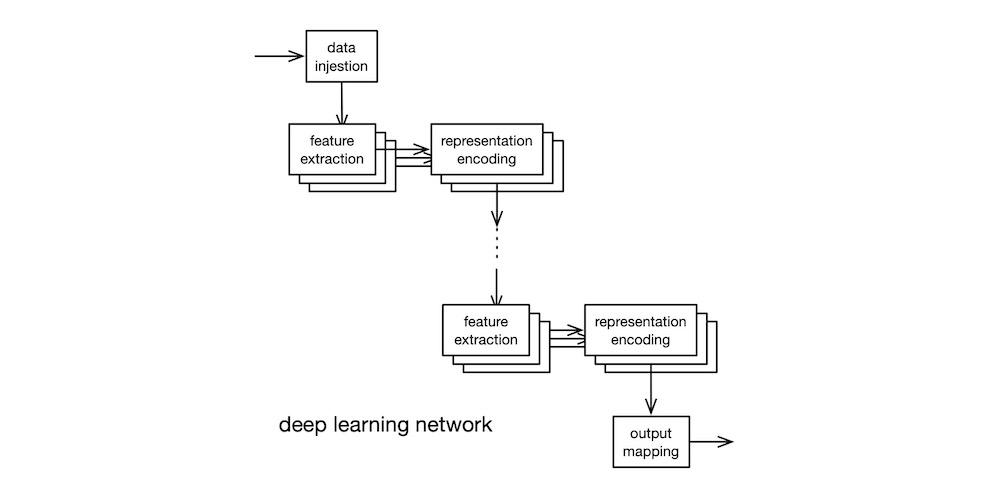
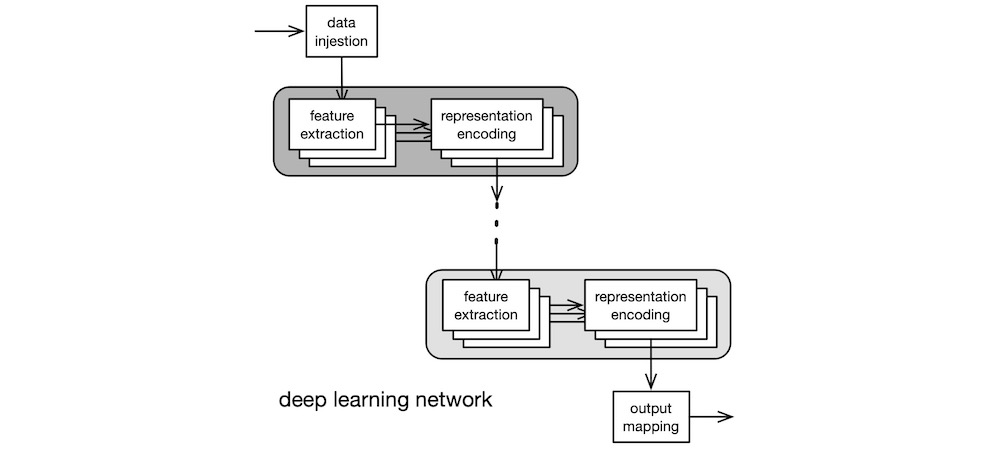
tidy

Changed region(s): [[0.403, 0.5911, 0.744, 0.9956], [0.248, 0.0, 0.589, 0.4044], [0.279, 0.84, 0.496, 0.9022]]

diff --git a/stem/AI/HowAIWorks.md b/stem/AI/HowAIWorks.md
@@ -1,0 +1,146 @@
+---
+title: "How Artificial Intelligence Works"
+tags:
+  - mathjax
+use_math: true
+---
+
+# INTRODUCTION
+
+In this article, I present a high-level overview of artificial intelligence (AI). I describe what AI is, its inner workings, its uses, and its social and ethical implications. All technical writings fall in the spectrum between scientific textbooks and newspaper reports. Textbooks are accurate, precise, and concise, but dense. Reports are vague and fluffy, but accessible. Because I wrote this article for anyone who is curious about how AI works, it is nearer to the report end of the spectrum than to the textbook end. But I tried to be as accurate as possible, without diminishing accessibility. Where appropriate, I sacrificed precision and concision for readability. More importantly, this is a "how it works" article for the general public, not a "how to work with it" guide for the practitioners. The focus, therefore, is on the simpler, classical algorithms, and not on the sophisticated, cutting-edge techniques.
+
+# APPROACHES
+
+There are tonnes of approaches used in AI: genetic algorithms, support vector machines, Bayesian networks, decision trees, stochastic methods, deterministic methods—the list is long. It is also important to realise that there are many equivalent classical approaches, such as signal processing, statistical analysis, and so on, that are capable of solving the same set of problems that AI can solve.
+
+In this article, we concentrate on the two historically significant AI traditions: connectionist and rule-based. *Connectionist* AI is commonly known as neural networks. *Rule-based* AI is traditionally associated with the LISP programming language. The most prevalent approaches currently in use are of the connectionist variety, which shall be our primary focus, here.
+
+## *connectionist*
+
+The myriad AI techniques that are in popular use today, different as they may appear, all share a common foundation: they all come under the umbrella term *artificial neural network* (NN). NN is a computational approach inspired by the quintessential biological neural network—the [brain](https://en.wikipedia.org/wiki/Brain). The most basic processing unit in the brain is the [neuron](https://en.wikipedia.org/wiki/Neuron). See the figure below. The [dendrites](https://en.wikipedia.org/wiki/Dendrite) of the neuron receive electrochemical signal inputs as weighted outputs from the upstream neurons. The weight can be negative, zero, or positive. The [soma](https://en.wikipedia.org/wiki/Soma_(biology)), the cell body, sums up the weighted input signals. The neuron also receives activation signals via the dendrites. Inhibitory (negative) activation signal keeps the neuron inactive. Excitatory (positive) activation signal causes the neuron to fire its output, which is derived from the weighted sum of its inputs. The [axon](https://en.wikipedia.org/wiki/Axon) trunk carries the output signal to the [synapses](https://en.wikipedia.org/wiki/Synapse), which make electrochemical connections to the input dendrites of downstream neurons. Learning involves establishing, strengthening, weakening, and removing signal pathways among the neurons. Although the structure and functions of the brain are far more intricate and complex, the simply-butchered description above suffices for our purposes, here.
+
+![biological neuron](../figures/AI/BiologicalNeuron.jpg)
+
+The earliest, practical NN model was invented in 1943 by neuroscientist [McCulloch](https://en.wikipedia.org/wiki/Warren_Sturgis_McCulloch) and logician [Pitts](https://en.wikipedia.org/wiki/Walter_Pitts). The diagram below shows the [McCulloch-Pitts](https://en.wikipedia.org/wiki/Artificial_neuron) artificial neuron. The neuron $n_j$ computes its output $o_j = f_j(i_j)$ where its transfer function is $f_j$ and its net input $i_j = ∑_{i=0}^{N} w_{ji} o_i$. The McCulloch-Pitts neuron uses the threshold function as its transfer function. This is the simplest model of the biological neuron's activation behaviour.
+
+The convention in NN literature is to label input signals $i$, output signals $o$, and weights $w$. And the neurons in the adjacent upstream layer are indexed with $i$, the neurons in the current layer with $j$, and the neurons in the adjacent downstream layer with $k$. So, the labels can get a bit knotty at times—$i_i$, $o_i$, $i_j$, $o_j$, etc. Also, since a weight is associated with the connection between two neurons in adjacent layers, the input connection weights of the neuron $n_j$ are labelled $w_{ji}$ and its output connection weights are labelled $w_{jk}$. Programmers, beware!
+
+So, by convention, the $o_i$ is an upstream neuron $n_i$'s output signal that arrives at the neuron $n_j$ via its input connection that has the multiplier weight $w_{ji}$. The neuron $n_j$ then sums all its weighted inputs $w_{ji} o_i$, and passes this net input value through its transfer function $f_j$ to compute its output $o_j$. The output $o_j$ is then sent to downstream neurons.
+
+![McCulloch-Pitts neuron](../figures/AI/McCullochPitts.jpg)
+
+Neurons are assembled into a neural network by arranging them in layers. Classic NNs typically used one or two layers of neurons, along with their weighted connections, as shown below. Learning involves presenting a list of input pattern vectors to the network and then modifying its connection weights in accordance with how well the network recognises each pattern. This weight adjustment method is referred as the *learning algorithm*. The final weight values produced by the algorithm encode the salient features present in the training patterns. A *feature* is an entity's distinctive attribute that can be represented compactly. It could be breadth, curvature, texture, colour, brightness, timbre, position, orientation—anything the network can use reliably to identify the entity in the context of the problem.
+
+![neural network](../figures/AI/NeuralNetwork.jpg)
+
+The two main types of learning algorithms are the supervised and the unsupervised varieties. A *supervised* learning algorithm requires the user to create a set of target (desired output) patterns, one for each input pattern, whereas an *unsupervised* learning algorithm does not require target patterns.
+
+There have been many classic NN learning algorithms. The first was the unsupervised [self-organising](https://ieeexplore.ieee.org/document/1057468) learning algorithm invented by Farley and [Clark](https://en.wikipedia.org/wiki/Wesley_A._Clark) in 1954. Although unsupervised learning algorithms are less frequently used today, the [self-organising map](https://en.wikipedia.org/wiki/Self-organizing_map) (SOM) algorithm is well known. It was invented in 1982 by Finnish engineering professor [Kohonen](https://en.wikipedia.org/wiki/Teuvo_Kohonen), who was inspired by the human perceptual systems, specifically the visual and the aural. Most learning algorithms in use today, however, are of the supervised variety. They trace their origins to the [Perceptron](https://en.wikipedia.org/wiki/Perceptron), a supervised learning algorithm for linear classifiers. It was invented by American psychologist [Rosenblatt](https://en.wikipedia.org/wiki/Frank_Rosenblatt) in 1957. He first implemented the algorithm on Cornell's IBM 704 mainframe. Subsequently, he built a custom, electromechanical [analogue computer](https://en.wikipedia.org/wiki/Analog_computer), called the Mark I Perceptron, which used motorised [potentiometers](https://en.wikipedia.org/wiki/Potentiometer) to represent trainable (adjustable) weights. Perceptron was capable of recognising letters. The eye of the Perceptron was a $20 × 20$ grid of photocells that produced a [greyscale](https://en.wikipedia.org/wiki/Grayscale) image. This resolution, though very coarse, was adequate to encode letters presented to the sensor.
+
+Many in IT today are of the opinion that AI is a simple matter of programming to an API published by an Internet Giant. In truth, psychologists, neuroscientists, mathematicians, electrical engineers, computer scientists, and STEMers of all stripes participated in establishing and advancing the NN subfield of AI: psychologists brought forth the concept of connectionism; mathematicians provided the theoretical foundation; electrical engineers built the first neuro computers; computer scientists implemented the early simulations. Hence, AI is definitively a multi-disciplinary field of study.
+
+## *rule-based*
+
+The main weakness of Perceptron was its linearity: it can only learn to discern patterns if they are linearly separable, that is their classifier boundary is a straight line. The Perceptron's inability to learn even the simplest of non-linear classifiers, like the one required to implement the [exclusive or](https://en.wikipedia.org/wiki/Exclusive_or) (XOR) function shown below, led to its eventual downfall.
+
+![non-linear classifier](../figures/AI/NonLinearClassifier.jpg)
+
+In 1969, [Minsky](https://en.wikipedia.org/wiki/Marvin_Minsky) and [Papert](https://en.wikipedia.org/wiki/Seymour_Papert) of MIT AI Lab published their book, [*Perceptrons*](https://en.wikipedia.org/wiki/Perceptrons_(book)). This book contains mathematical proofs of why the Perceptron algorithm is incapable of solving non-linear problems. Minsky and Rosenblatt were childhood friends. Minsky dedicated his book to Rosenblatt—cheeky.
+
+Minsky was motivated, at least in part, to show the limitations of the connectionist approach, because his AI Lab at MIT was wholly dedicated to rule-based approach. In 1958, [McCarthy](https://en.wikipedia.org/wiki/John_McCarthy_(computer_scientist)) created the [LISP](https://en.wikipedia.org/wiki/Lisp_(programming_language)) programming language at MIT. Coincidentally, the first implementation of LISP was for the IBM 704. LISP was a machine implementation of [𝜆-calculus](https://en.wikipedia.org/wiki/Lambda_calculus), a mathematical model of computation created by [Church](https://en.wikipedia.org/wiki/Alonzo_Church) in 1936. LISP was also the second high-level programming language (after FORTRAN) and the first [functional](https://en.wikipedia.org/wiki/Functional_programming) programming language. The mathematical heritage and the [symbolic processing](https://en.wikipedia.org/wiki/Computer_algebra) abilities of LISP were well suited to implementing rule-based AI programmes, and it quickly became the favourite among the rule-based crowd, [especially at MIT](https://en.wikipedia.org/wiki/Lisp_machine). Suffice it to say, Minsky's *Perceptrons* killed off Rosenblatt's Perceptron and other NNs and, by the early 1970s, expert systems dominated AI.
+
+An [expert system](https://en.wikipedia.org/wiki/Expert_system) is an AI application modelled upon the way human experts make technical decisions in the course of performing their daily duties. Early automated theorem proving systems, chess playing systems, and decision support systems were, in essence, expert systems. Such a system is preconfigured with a set of rules for making decisions—selecting a `yes` or a `no` at each step. When the user provides an input, the system applies the rules against the input and, step by step, arrives at a decision. When the set of rules is comprehended and comprehensive, expert systems work exceedingly well. Another major advantage of expert systems is that the results can always be explained fully by simply tracing the algorithm's path down the decision tree.
+
+But few things in nature exhibit such orderly behaviour. Moreover, humans understand even fewer things in nature at such a level of detail. Even if we manage to grasp the dynamics of a large problem, the rules and their interactions would be intractable. Unfortunately, the purveyors of expert systems over promised and the media over reported the hype. By the early 1980s, the users and the public had lost interest in expert systems, and the funding spigot was shut. This period is now known as [AI Winter](https://en.wikipedia.org/wiki/AI_winter).
+
+## *backpropagation*
+
+A few researchers who saw the true strengths of AI continued working in the field—underground. Then, in 1986, [Rumelhart](https://en.wikipedia.org/wiki/David_Rumelhart), [Hinton](https://en.wikipedia.org/wiki/Geoffrey_Hinton), and [Williams](https://en.wikipedia.org/wiki/Ronald_J._Williams) published their seminal paper, *[Learning representations by back-propagating errors](https://www.nature.com/articles/323533a0)*. Their learning algorithm became known as *backpropagation* (BP). BP is a supervised learning algorithm that modifies the network's weights in proportion to the amount of representation error the network commits in each training pass through the data set. In that respect, BP's learning process is no different in kind than that of the Perceptron: find the optimal set of weights that minimise representation errors. But BP's main advantage over the Perceptron is its ability to learn non-linear classifiers. Indeed, non-linearity was why BP works and Perceptron did not. Mathematically, the BP learning algorithm is a simple, [gradient descent](https://en.wikipedia.org/wiki/Gradient_descent) optimisation scheme known to mathematicians since [Cauchy](https://en.wikipedia.org/wiki/Augustin-Louis_Cauchy) introduced it in 1847. But practically, it was capable of solving substantive problems which, until then, were deemed too difficult for machines.
+
+In the 1980s, a room-sized minicomputer, like the [DEC VAX-11/780](https://en.wikipedia.org/wiki/VAX-11), had 1 MB of RAM, usually much less. So, networks were very small, a typical model having just two layers and a handful of neurons in each layer. Despite such restrictions, BP-based networks were able to solve efficiently a number of complex, non-linear problems, like speech recognition, image classification, robotics control, etc. Within a couple of years, BP single-handedly resuscitated the dying AI field. Many variants and improvements soon followed, further improving network performance. Understandably, the AI community was cautiously optimistic, this time round.
+
+Most users of NNs simulate on mainstream computing hardware, like the VAX-11 or RISC workstations. But these machines, though powerful for their day, are severely limited in both CPU power and RAM capacity. In response, a number of groups developed custom hardware for neural computing. Some built machines out of common digital hardware but optimised for neural computing, but others designed custom analogue VLSI chips. The Stanford group led by [Mead](https://en.wikipedia.org/wiki/Carver_Mead) was especially productive in this area. His PhD student, [Mahowald](https://en.wikipedia.org/wiki/Misha_Mahowald), developed the [silicon retina](https://en.wikipedia.org/wiki/Event_camera), which is an image sensor technology that out performs the human eye and the best DSLRs by several orders of magnitude. This technology was further developed by Mead's company, [Foveon](https://en.wikipedia.org/wiki/Foveon), which is now part of [SIGMA](https://www.sigma-global.com/en/).
+
+Most folks today are unaware that there was a AI Mini Ice Age during the mid 1990s. Although the hardware capabilities had increased leaps and bounds, the storage technology was still somewhat limited. Disc sizes were still measured in MB, albeit in hundreds thereof. Most data sets used in AI were only a few MBs in size. The lack of storage capacity necessarily constrained the completeness of data sets. So, neither humans nor networks could see the true nature of massive, complex, dynamical systems. The lack of data, thus, stunted the growth of AI. To get around some of the limitations, many experimented melding rule-based and connectionist techniques. But for the most part, NNs were confined to academic research and to small-scale commercial use to the end of the 1990s. The [dot-com collapse](https://en.wikipedia.org/wiki/Dot-com_bubble) at the end of the 1990s and the subsequent economic stagnation did no favours to AI.
+
+## ***deep learning***
+
+Then came the age of Internet Giants—the early 2000s. Massive, simultaneous advances in computing power, storage capacity, network connectivity, graphics technology, and software techniques conspired to create the fastest growth in the history of human invention. The Web came of age. Online shopping became the norm. Billion-user social media platforms became a reality. The Internet Giants saw gold in the users' private data, which they procured by giving away free online services. [Big data](https://en.wikipedia.org/wiki/Big_data) was born. By 2010s, everything converged: massive amounts of collected data, advances in NN algorithms, huge rise in processing power. It was in this Era of Data that people began recognising the true potential of BP, or rather its descendant—[deep learning](https://en.wikipedia.org/wiki/Deep_learning) (DL).
+
+Whereas the classic BPs of the 1990s could only use two or three layers of neurons due to hardware limitations, the DLs of the 2010s routinely employ many layers and many different types of neurons. Today, home users of DLs train their networks on powerful, but inexpensive, graphics cards, like the [nVIDIA RTX](https://www.nvidia.com/en-us/design-visualization/desktop-graphics/) so as to exploit the GPU's built-in support for parallel matrix operations across tens of thousands of cores. The "deep" in deep learning refers to the many layers of neurons, as shown below in grey boxes.
+
+![deep learning neural network](../figures/AI/DeepLearningNetwork.jpg)
+
+Another substantial advantage of modern DLs over classic BPs is feature extraction. Feature extraction required the use of sophisticated, mathematical techniques such as [digital signal processing](https://en.wikipedia.org/wiki/Digital_signal_processing) (DSP), [digital image processing](https://en.wikipedia.org/wiki/Digital_image_processing) (DIP), [natural language processing](https://en.wikipedia.org/wiki/Natural_language_processing) (NLP), etc. Each such technique constitutes a highly specialised, not to mention expansive, subfield within mathematics or engineering. So, competent practitioners were relatively few in numbers in the early days of BPs, which limited their usefulness. But DLs subsume feature extraction into the front-end layers of the network. That is, a DL network automatically extracts salient features from the data, and learns to represent those features in its connection weights, with little or no guidance from human experts. Hence, DL networks can be used effectively even by non-experts. Paradoxically, this characteristic of DLs is also a disadvantage, of sort: if a complex AI problem can be solved merely by clicking a button on a GUI, there is no need for the user to perform any analysis of the problem domain and of the massive amounts of data accumulated, so he gains no insight into the problem and he cannot explain the reasons why the solution appears to work. Regardless, DLs are here to stay; now is their day.
+
+Over the past quarter century, our shopping habits, social media propensities, blogging activities, email exchanges, cloud-borne personal information—just about every aspect of our lives, both personal and professional—have been collected, analysed, categorised, tracked, and predicted by Internet Giants' DLs. Despite their prominence in modern life, however, DLs are but a small part of a much broader category of powerful modern methods known collectively as [machine learning](https://en.wikipedia.org/wiki/Machine_learning) (ML) algorithms, which in turn are a subfield within AI. Suffice it to say, AI is an expansive field of study.
+
+# APPLICATIONS
+
+There are three broad categories of AI applications: approximating, classifying, and forecasting. Each category has multiple subcategories, which we shall examine, below.
+
+Just as there are applications, there are appliers, the users of AI: the practitioners. Researchers invent AI algorithms. AI software designers use those algorithms to build industry-scale systems. Coders use published libraries to implement pieces of code that are composed into large systems. Companies employ researchers, designers, and coders to exploit AI. In terms of skills, it does not take much to become an AI practitioner: calculus, linear algebra, probability, and statistics. But an AI practitioner earns his keep by analysing and understanding complex, dynamic behaviours of large systems from the massive amounts of collected raw data. That is difficult, even for the skilled and the experienced.
+
+The Internet Giants who exploit AI technologies often state that the real beneficiaries of AI are the members of the public. A closer look, however, reveals that the public is the victim.
+
+## *approximating*
+
+*Approximating* means the AI algorithm learns to emulate the behaviour of a real-world system well enough that its behaviour is indistinguishable from the real thing in most cases. There is a set of important, optimisation problems that have been proven to be exceedingly difficult for computers to solve. They are known as $NP$ ([non-deterministic polynomial time](https://en.wikipedia.org/wiki/NP_(complexity))) problems. That is a fancy way of saying computer scientists do not know how to create efficient, exact solutions to these problems because they are much too complicated, and they must resort to approximate solutions. The [vehicle routing problem](https://en.wikipedia.org/wiki/Vehicle_routing_problem) is a famous real-world scenario that is computationally difficult. The goal is to find an optimal set of routes for a fleet of delivery vans to deliver parcels to a set of customers. The larger the network, the more difficult the problem. This is what transportation service companies face, daily.
+
+In such situations, NNs can efficiently learn to approximate the complex behaviour of difficult problems. Both conventional algorithms and NNs yield approximate solutions that are acceptable, but not necessarily optimal. But NNs are computationally more efficient.
+
+## ***classifying***
+
+*Classifying* means the AI algorithm organises its input patterns into predefined classes. An instance of classification problem is sorting bananas into A, B, or C grades, in accordance with their cultivar, grower, shape, size, weight, colour, and ripeness. A conventional system might cast this as a multi-dimensional constraint satisfaction problem, a rather hard problem to solve. An NN-based system can solve this problem with ease and speed.
+
+A variant of classifying is *clustering*, where we do not know the input classes, a priori. Clustering can be used as a preprocessing stage: a representative subset of the unknown data set can clustered to discover the number of classes present in the data, for example. Traditional, $k$-means clustering technique can solve this problem, but it requires the user to select the total number of classes as a limit and it falters when the number of input samples are extremely large. An unsupervised NN algorithm, like Kohonen's SOM, can solve this problem much more efficiently, and without any user intervention. The output of SOM is a 2D projection of the $n$-dimensional input data set.
+
+Another variant of classifying is *identifying*, for example, to identify the faces in a photograph or to identify a person by his voice. Rosenblatt's Perceptron was perhaps the first practical system capable of identifying individual English letters from images.
+
+Still another variant of classifying is *recognising*: text recognition, speech recognition, and so on. Recognition is much more difficult than identification. Whereas a computer can identify the letter "a" in an image or a phoneme "a" in an audio clip relatively easily, but recognising the word that comprises several letters or an utterance containing multiple phonemes is orders of magnitude harder for the computer. This difficulty is due to context dependency. To recognise a word, the computer must not only identify the constituent letters, it must also recognise their relationships within the word. In the 1980s, several researchers, Kohonen, Grossberg, LeCun, and others, invented NNs capable of simple speech recognition. Those systems required lots of manual preprocessing of audio. Today, however, DL networks can perform sophisticated speech recognition, with little or no preprocessing.
+
+Note that NNs, despite their powers, are incapable of explaining how and why they produced the results. There are applications where that information is necessary. For example, if the bank denies a loan, the bank must justify its actions and explain to the applicant that the actions comply with the law. The intractability of large NNs precludes detailed analyses.
+
+## *forecasting*
+
+*Forecasting* means the AI algorithm, having learned the relevant trends from historical data, can predict a future outcome, given a particular input. That a large, national retail store must stock the shelves in all its stores for the holiday shopping season is obvious; that requires no AI. But in today's global economy, the supply chain is affected by many unforeseen events occurring all across the world. This is where forecasting is necessary. Indeed, forecasting is used today by all large entities, public and private.
+
+The massive amounts of data now available makes forecasting possible, even if it is still not an easy problem. If forecasting were easy, we would not suffer from hurricanes, tsunamis, earthquakes, volcano eruptions, and other "unforeseen" natural disasters. Such problems are difficult, even for NNs, because they are chaotic. A chaotic system, like a storm, is not random. A storm's present behaviour can be analysed using deterministic physical laws, without resort to randomness. But its behaviour is so sensitive to the initial conditions that it is impossible to predict the exact path of the storm. This is why weather forecasting is as much an art as it is a science. NNs are no panacea to solving chaotic problems.
+
+But NNs can indeed be used to make predictions in deterministic systems, such as in the *control* of robots and other autonomous vehicles. Control systems are used to govern the dynamic behaviours of mechanical systems: from a two-limb, laboratory robot arm to a large, automated factory floor; from a self-driving car to a spacecraft reentry system. In large, complex applications, the control system cannot simply react to the current conditions; it must be capable of learning from past events, predicting future events, and reacting to novel events that it has never seen before. It is extremely difficult to built into the system this level of flexibility, using conventional techniques. NN-based systems, though, are capable of orders of magnitude greater flexibility.
+
+A more recent use of NNs is in *composition*. It is now possible to train an NN on the text of a dead, famous author, and have the network generate new writings in the style of that author. Similarly, new musical compositions and new paintings can be generated, automatically. [Deepfakes](https://youtu.be/T76bK2t2r8g) that permeate social media today are a compositional, as well. Still in their nascent stage, they have already demonstrated their ability to fool the gullible.
+
+# ALGORITHMS
+
+categories—statistics, connectionist, hybrid, etc.
+
+classic techniques—SOM, BP, analogue VLSI
+
+modern techniques—DL
+
+data collection, analysis, cleansing—statistics, projection, DSP, DIP, wavelets
+
+# ALERTNESS
+
+Life is full of dangers, and every new and useful invention adds a set of unique dangers thereto. Knives and scissors and hammers are dangerous. So are [trains and boats and planes](https://www.youtube.com/watch?v=BlbS0JNFMIM). But they are all essential to modern life. AI is no different; it is a sharp tool that, if mishandled, will gouge the user's hand.
+
+AI as a research discipline has been around for nearly a century. But as a practical tool, AI is only about a decade old. Despite its youth, AI already controls many important aspects of our lives. But the fact that the most successful uses of AI have been invading privacy, deep faking, and e-commerce profiteering—not tackling homelessness, global pandemics, or climate change—speaks volumes about us humans.
+
+Researchers (inventors) and users (exploiters) alike must be cognisant of the fact that AI is nothing miraculous, but that it is a human invention susceptible to myriad human frailties: overenthusiasm, overconfidence, oversight, and all manner of overages. Being just a tool, AI can be used and misused with equal dexterity. But whereas the misuse of a pair of scissors harms only the user, the [misuse of AI has the power to dismantle democracy](https://www.independent.co.uk/news/long_reads/artificial-intelligence-democracy-elections-trump-brexit-clinton-a7883911.html).
+
+The secret algorithms currently being used by the social media platforms are AI, specifically the DL variety. These algorithms are very good at showing the user what he wants to see. But these algorithms are not trained to show the user what he ought to see, because there is no money in that. Social media platforms profit by exploiting the billions of users' wants, but they effectively distort the truth. Access to reliable facts is the fundamental building block of a free, democratic society. It is not that the truth is a rare commodity today, but that the truth is now very difficult to discern from the much more abundant falsehoods. This erodes the public's trust in authorities, and this lack of faith in the institutions results in a feedback: the uncontrolled spread of feel-good falsehoods on social media.
+
+Then, there are [deepfakes](https://en.wikipedia.org/wiki/Deepfake). They are an interesting challenge, perhaps even an artistic expression, for the creators. But in nefarious hands, this technology can precipitate ethnic cleansing and other [crimes against humanity](https://en.wikipedia.org/wiki/Crimes_against_humanity). Granted, there exist a few sophisticated forensic techniques that can detect deepfakes, but these tools are not perfect and they are available only to a handful of specialists. Hence, bad actors have plenty of time and opportunities to achieve their ill goals by exploiting the rampant irrationality of the unsophisticated, but well connected, masses.
+
+Today, we conduct our lives online: finances, commerce, and even voting. Everything we do online is traced and trended by entities large and small, and those pieces of data are traded openly and surreptitiously. It is now remarkably simple to use the already-available data and AI software to devise a [gerrymander](https://en.wikipedia.org/wiki/Gerrymandering) our electoral boundaries, thereby favouring a fringe political group or perhaps even a foreign enemy. Currently, there are governments who [employ AI to oppress minorities and dissidents](https://www.pbs.org/wgbh/frontline/article/how-chinas-government-is-using-ai-on-its-uighur-muslim-population/). Researchers from Western, democratic countries supply the technologies to those oppressors.
+
+In the Age of Data, AI has "learned to seize" an immense amount of power for itself, but it possess not a tincture of morals. And the entities exploiting AI, likewise, have powers but no morals. As such, [We the People](https://en.wikipedia.org/wiki/Preamble_to_the_United_States_Constitution) must exercise our duty to study, monitor, and regulate the conduct of those who wield the powers of AI. As a still-free folk, we have the moral duty not only to preserve our own freedoms but also to protect the human rights of others. Woe be upon those who equate "freedom" with "free".
+
+# CONCLUSION
+
+There are three types of people interested in AI: the curious public, the incurious users, and the eager researchers. The curious public are those who do not work with AI but just want to understand how AI works at a basic level. The incurious users are coders in the IT industry who could care less about how AI works and they just want to slap together some AI programme. The eager researchers are the ones who have their skins in the game. Although this article is aimed at the curious public, the other two groups may benefit from it, as well: coders and their managers may benefit from understanding better what the code is doing; aspiring researchers and beginning graduate students may benefit from knowing the historical background of their field of interest.
+
+Some years ago, I was shooed off the NN forum on the now-defunct Google+ platform by a gang of young AI enthusiasts for suggesting that all researchers should be familiar with the classic works of researchers, like McCulloch, Pitts, Rosenblatt, Widrow, Kohonen, Hopfield, Rumenhart, LeCun, etc., in addition to the modern literature. Despite my resounding defeat on social media, I stand by that view: they who admire only the newest and the most fashionable learn nothing from history, and they lack the requisite background of the field. It is important to realise that knowing how to code an AI application using library calls is not the same as understanding what that application is actually doing. Those who use AI without comprehending its strengths, weaknesses, and ethical implications bring no long-term benefits to society. Indeed, they may do more harm than good to humanity.
+
+Lastly, the public must recognise that the founders and leaders of Internet Giants do not necessarily understand the AI technologies their companies are employing. The chief executive of a corporation is legally responsible for maximising the shareholders' returns. This legal mandate often conflicts with ethical, social, and equitable concerns of the public. The IT executives should wield their powers, by all means; but they ought to act in a socially responsible manner. When these large, powerful international conglomerates wilfully breach the public's trust, the only recourse is the law. In a democracy, the law derives its powers from the public. As such, the public must exercise its duty to study the impacts and trends of AI technologies and to monitor the activities of AI users.

diff --git a/stem/AI/index.md b/stem/AI/index.md
@@ -1,0 +1,8 @@
+---
+title: "Topics in Artificial Intelligence"
+---
+
+This section presents topics in artificial intelligence (AI).
+
+- [How AI Works](HowAIWorks.md)
+  - This article gives a high-level explanation of AI. Given the nature of the subject, it contain bits of linear algebra and partial differential equations. But since this article is intended for everyone, STEMers and non-STEMers, every mathematical reference is accompanied by a plain English explanation.
